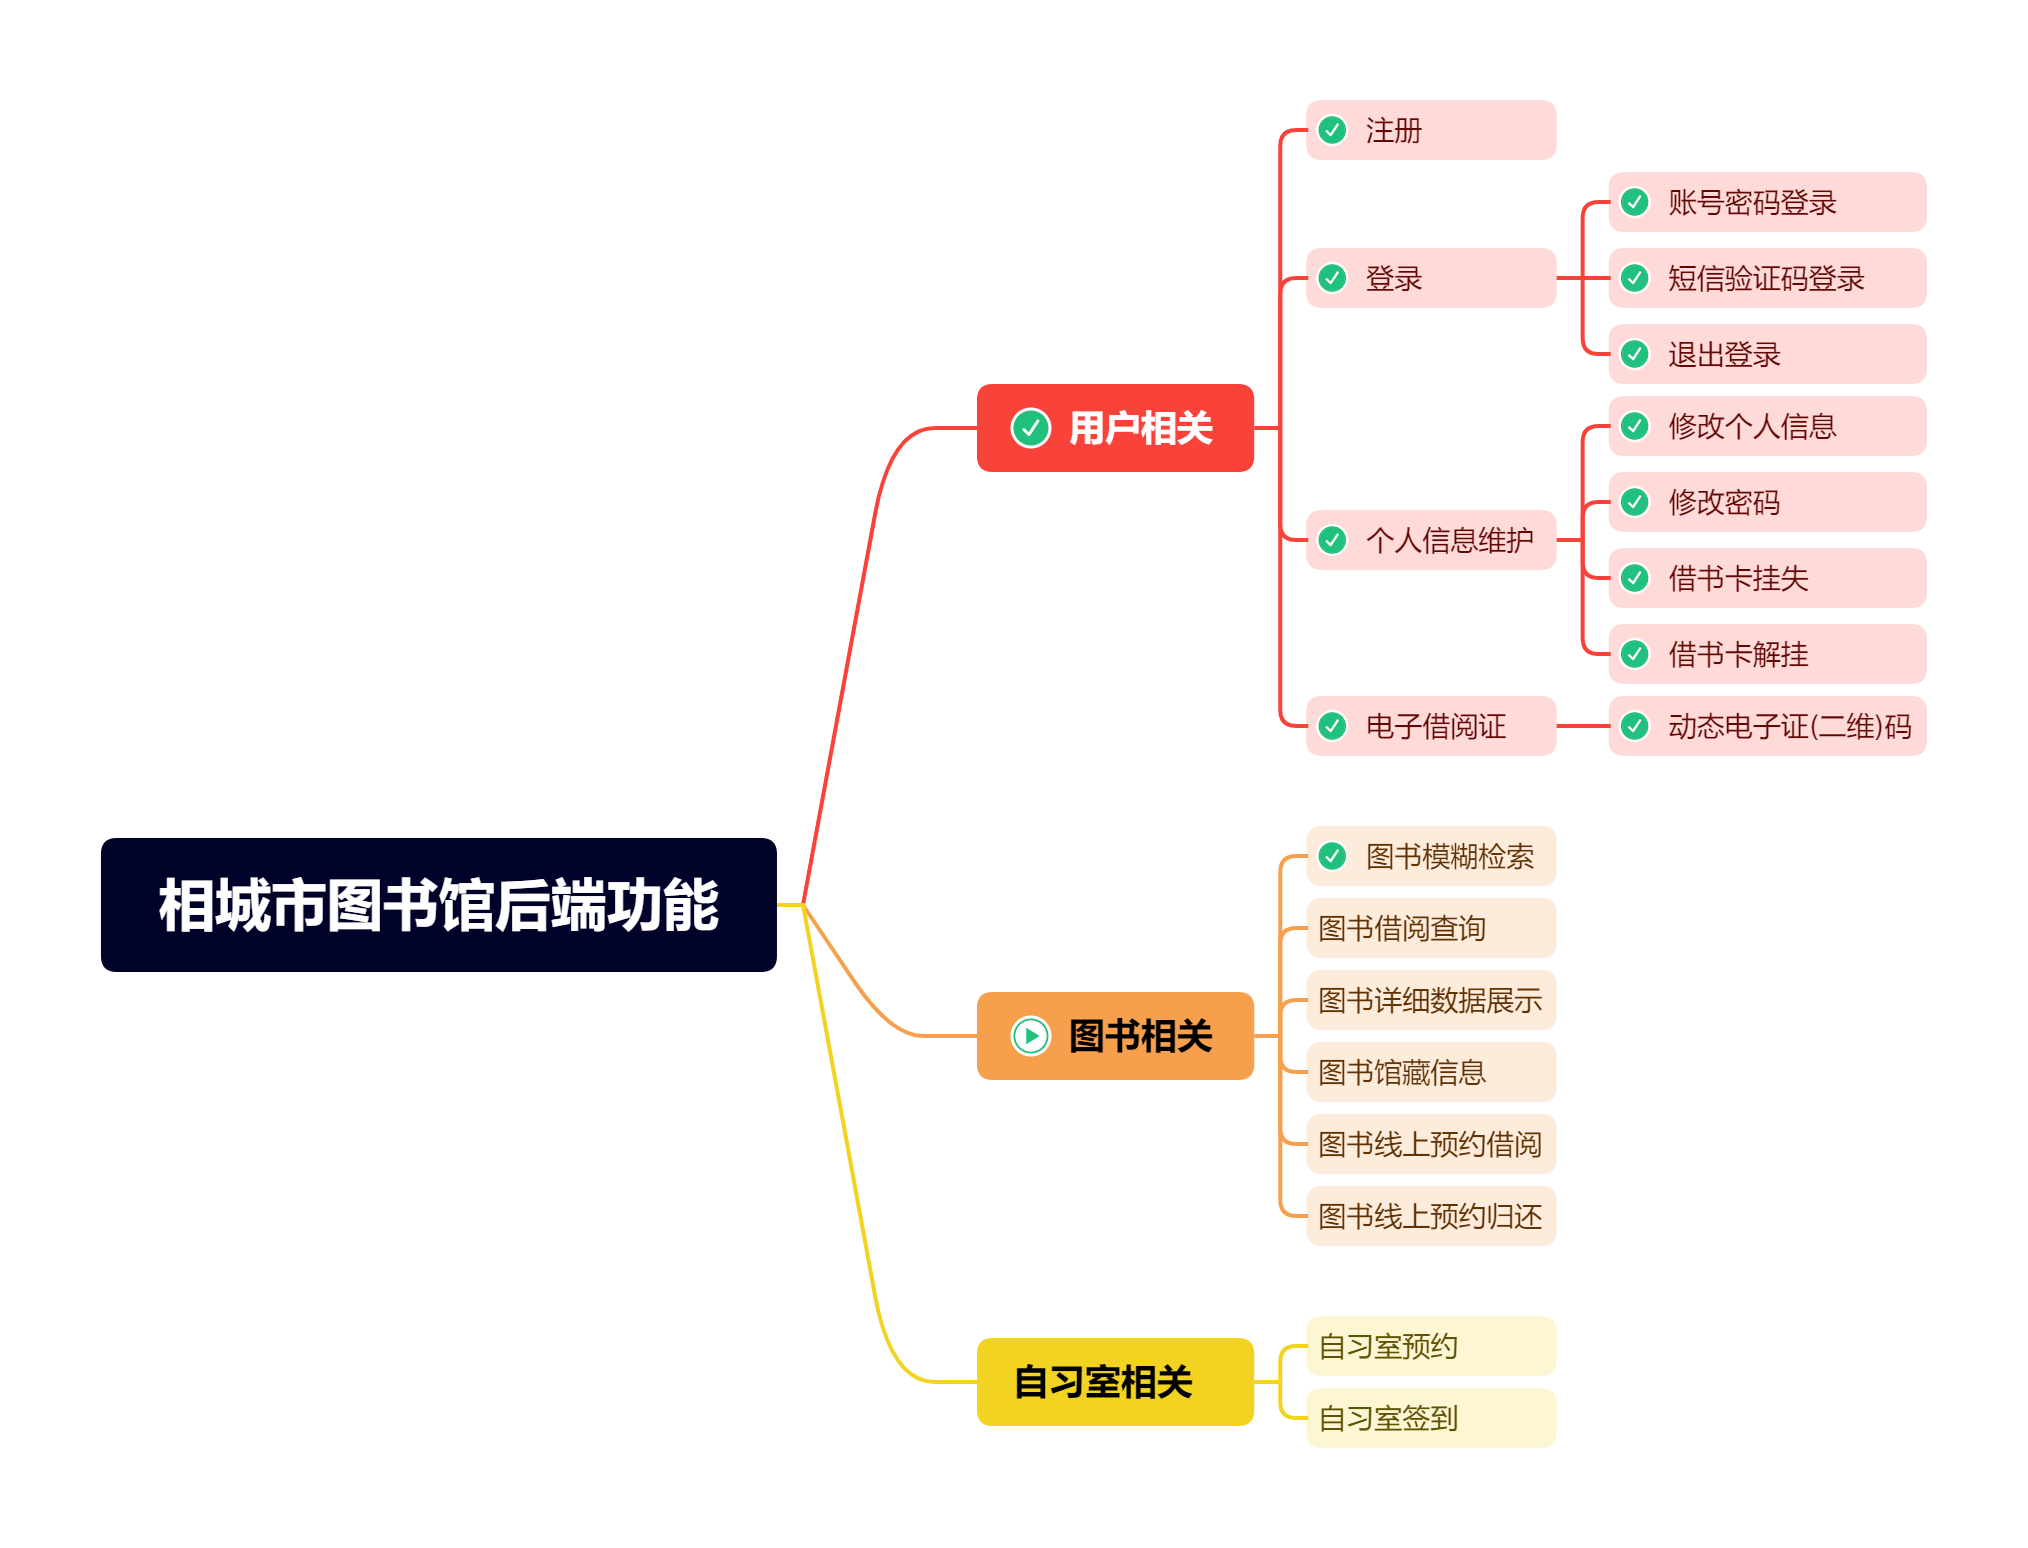
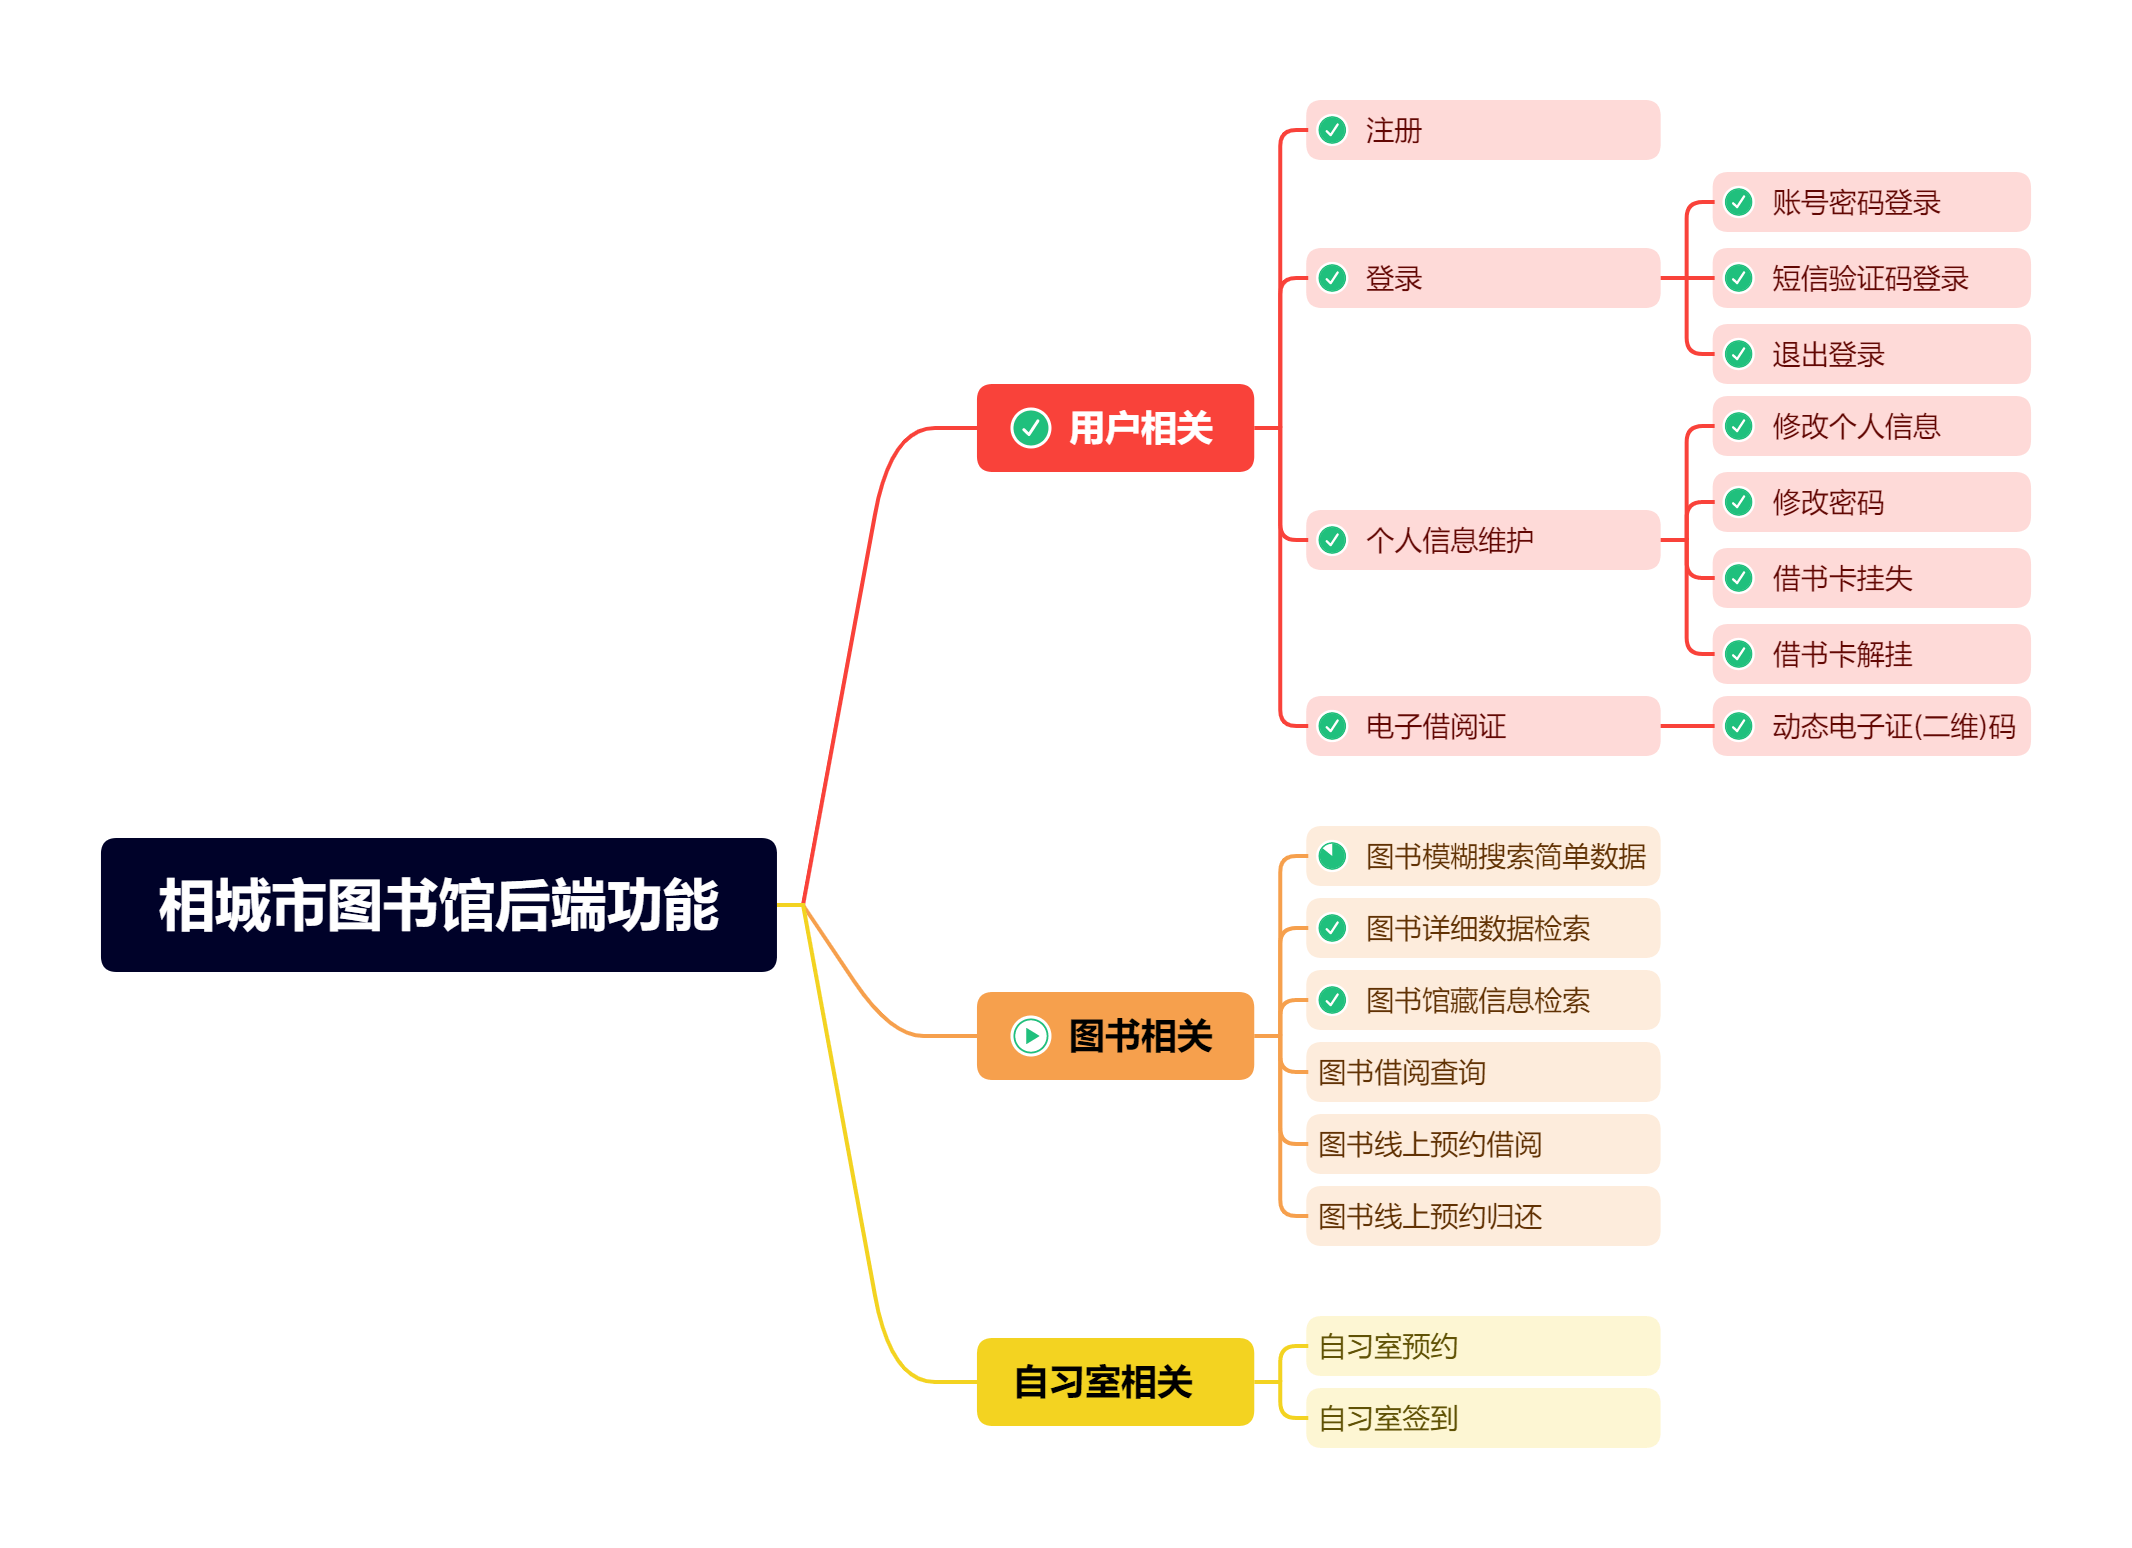
✨新增图书模糊搜索详细数据功能, 图书馆藏信息检索功能, 图书相关测试类

diff --git a/server/main/java/top/mole9630/library/controller/BookController.java b/server/main/java/top/mole9630/library/controller/BookController.java
@@ -9,8 +9,12 @@ import org.springframework.web.bind.annotation.GetMapping;
 import org.springframework.web.bind.annotation.RequestMapping;
 import org.springframework.web.bind.annotation.RestController;
 import top.mole9630.library.common.Result;
+import top.mole9630.library.entity.BookAll;
 import top.mole9630.library.entity.BookInfo;
+import top.mole9630.library.service.BookAllService;
 import top.mole9630.library.service.BookInfoService;
+
+import java.util.List;
 
 @RestController
 @RequestMapping("/book")
@@ -18,6 +22,8 @@ import top.mole9630.library.service.BookInfoService;
 public class BookController {
     @Autowired
     private BookInfoService bookInfoService;
+    @Autowired
+    private BookAllService bookAllService;
 
     /**
      * 分页查询图书信息
@@ -27,7 +33,7 @@ public class BookController {
      * @param type 搜索类型
      * @return 图书信息
      */
-    @GetMapping("/page")
+    @GetMapping("/search-book-page")
     public Result<Page> searchBookInfoPage(int page, int pageSize, String searchText, Integer type) {
         // 构造分页构造器
         Page<BookInfo> bookInfoPage = new Page<>(page, pageSize);
@@ -53,9 +59,33 @@ public class BookController {
             }
         }
         // 添加排序条件
-        queryWrapper.orderByDesc(BookInfo::getUpdate_time);
+//        queryWrapper.orderByDesc(BookInfo::getUpdate_time);
         // 查询
         bookInfoService.page(bookInfoPage, queryWrapper);
         return Result.success(bookInfoPage);
+    }
+
+    /**
+     * 根据图书id查询单个图书详细信息
+     * @param bookId 图书id
+     * @return 图书详细信息
+     */
+    @GetMapping("/get-book-info")
+    public Result<BookInfo> getBookInfo(Integer bookId) {
+        BookInfo bookInfo = bookInfoService.getById(bookId);
+        return Result.success(bookInfo);
+    }
+
+    /**
+     * 根据图书id查询图书馆藏信息
+     * @param bookId 图书id
+     * @return 图书馆藏信息
+     */
+    @GetMapping("/get-book-all")
+    public Result<List<BookAll>> getBookAll(Integer bookId) {
+        LambdaQueryWrapper<BookAll> queryWrapper = new LambdaQueryWrapper<>();
+        queryWrapper.eq(BookAll::getBookId, bookId);
+        List<BookAll> bookAllList = bookAllService.getBaseMapper().selectList(queryWrapper);
+        return Result.success(bookAllList);
     }
 }

diff --git a/server/test/java/top/mole9630/library/book/BookGetTest.java b/server/test/java/top/mole9630/library/book/BookGetTest.java
@@ -1,0 +1,48 @@
+package top.mole9630.library.book;
+
+import com.baomidou.mybatisplus.extension.plugins.pagination.Page;
+import lombok.extern.slf4j.Slf4j;
+import org.junit.jupiter.api.Test;
+import org.springframework.beans.factory.annotation.Autowired;
+import org.springframework.boot.test.context.SpringBootTest;
+import top.mole9630.library.common.Result;
+import top.mole9630.library.controller.BookController;
+import top.mole9630.library.entity.BookAll;
+import top.mole9630.library.entity.BookInfo;
+import top.mole9630.library.service.BookAllService;
+import top.mole9630.library.service.BookInfoService;
+
+import java.util.List;
+
+@SpringBootTest
+@Slf4j
+public class BookGetTest {
+    @Autowired
+    private BookController bookController;
+
+    /**
+     * 分页查询图书信息
+     * @return 图书信息
+     */
+    @Test
+    void getSearchBookTest() {
+        Result<Page> result = bookController.searchBookInfoPage(1, 10, "青少年", 1);
+        log.info("result: {}", result);
+    }
+
+    @Test
+    void getBookInfoTest() {
+        Result<BookInfo> result = bookController.getBookInfo(15052);
+        log.info("result: {}", result);
+    }
+
+    /**
+     * 查询图书馆藏信息
+     * @return 图书馆藏信息
+     */
+    @Test
+    void getBookAllTest() {
+        Result<List<BookAll>> result = bookController.getBookAll(15052);
+        log.info("result: {}", result);
+    }
+}

diff --git a/server/main/java/top/mole9630/library/entity/BookInfo.java b/server/main/java/top/mole9630/library/entity/BookInfo.java
@@ -4,12 +4,14 @@ import com.baomidou.mybatisplus.annotation.FieldFill;
 import com.baomidou.mybatisplus.annotation.IdType;
 import com.baomidou.mybatisplus.annotation.TableField;
 import com.baomidou.mybatisplus.annotation.TableId;
+import com.fasterxml.jackson.annotation.JsonIgnoreProperties;
 import io.swagger.annotations.ApiModel;
 import io.swagger.annotations.ApiModelProperty;
 import lombok.Data;
 
 @Data
 @ApiModel(value = "图书信息")
+@JsonIgnoreProperties(value = {"ordered", "status", "createTime", "updateTime"})
 public class BookInfo {
     @TableId(type = IdType.AUTO)
     @ApiModelProperty(value = "图书ID")
@@ -25,7 +27,7 @@ public class BookInfo {
     private String pubdate;
 
     @ApiModelProperty(value = "图书封面")
-    private String source_image;
+    private String sourceImage;
 
     @ApiModelProperty(value = "作者")
     private String author;
@@ -47,10 +49,9 @@ public class BookInfo {
 
     @ApiModelProperty(value = "创建时间")
     @TableField(fill = FieldFill.INSERT) // 新增时自动填充
-    private String create_time;
+    private String createTime;
 
     @ApiModelProperty(value = "更新时间")
     @TableField(fill = FieldFill.INSERT_UPDATE) // 新增或更新时自动填充
-    private String update_time;
-
+    private String updateTime;
 }

diff --git a/server/main/java/top/mole9630/library/vo/SearchSimpleBookVo.java b/server/main/java/top/mole9630/library/vo/SearchSimpleBookVo.java
@@ -1,0 +1,36 @@
+package top.mole9630.library.vo;
+
+import com.baomidou.mybatisplus.annotation.FieldFill;
+import com.baomidou.mybatisplus.annotation.IdType;
+import com.baomidou.mybatisplus.annotation.TableField;
+import com.baomidou.mybatisplus.annotation.TableId;
+import io.swagger.annotations.ApiModelProperty;
+import lombok.Data;
+
+
+@Data
+public class SearchSimpleBookVo {
+    @ApiModelProperty(value = "图书ID")
+    private Integer id;
+
+    @ApiModelProperty(value = "图书ISBN")
+    private String ibsn;
+
+    @ApiModelProperty(value = "图书名称")
+    private String name;
+
+    @ApiModelProperty(value = "出版日期")
+    private String pubdate;
+
+    @ApiModelProperty(value = "图书封面")
+    private String source_image;
+
+    @ApiModelProperty(value = "作者")
+    private String author;
+
+    @ApiModelProperty(value = "出版社")
+    private String publisher;
+
+    @ApiModelProperty(value = "图书状态")
+    private Integer status;
+}

diff --git a/server/main/java/top/mole9630/library/entity/BookAll.java b/server/main/java/top/mole9630/library/entity/BookAll.java
@@ -1,16 +1,18 @@
 package top.mole9630.library.entity;
 
+import com.fasterxml.jackson.annotation.JsonIgnoreProperties;
 import lombok.Data;
 
 @Data
+@JsonIgnoreProperties(value = {"lendStatus", "createTime", "updateTime"})
 public class BookAll {
     private Integer id;
-    private Integer book_id;
-    private String org_name;
-    private String room_name;
-    private Integer index_no;
-    private String lend_status;
-    private String create_time;
-    private String update_time;
+    private Integer bookId;
+    private String orgName;
+    private String roomName;
+    private String indexNo;
+    private Integer lendStatus;
+    private String createTime;
+    private String updateTime;
 
 }

diff --git a/server/main/java/top/mole9630/library/service/impl/BookAllServiceImpl.java b/server/main/java/top/mole9630/library/service/impl/BookAllServiceImpl.java
@@ -1,0 +1,11 @@
+package top.mole9630.library.service.impl;
+
+import com.baomidou.mybatisplus.extension.service.impl.ServiceImpl;
+import org.springframework.stereotype.Service;
+import top.mole9630.library.entity.BookAll;
+import top.mole9630.library.mapper.BookAllMapper;
+import top.mole9630.library.service.BookAllService;
+
+@Service
+public class BookAllServiceImpl extends ServiceImpl<BookAllMapper, BookAll> implements BookAllService {
+}

diff --git a/server/main/java/top/mole9630/library/mapper/BookAllMapper.java b/server/main/java/top/mole9630/library/mapper/BookAllMapper.java
@@ -1,0 +1,9 @@
+package top.mole9630.library.mapper;
+
+import com.baomidou.mybatisplus.core.mapper.BaseMapper;
+import org.apache.ibatis.annotations.Mapper;
+import top.mole9630.library.entity.BookAll;
+
+@Mapper
+public interface BookAllMapper extends BaseMapper<BookAll> {
+}

diff --git a/server/main/java/top/mole9630/library/service/BookAllService.java b/server/main/java/top/mole9630/library/service/BookAllService.java
@@ -1,0 +1,7 @@
+package top.mole9630.library.service;
+
+import com.baomidou.mybatisplus.extension.service.IService;
+import top.mole9630.library.entity.BookAll;
+
+public interface BookAllService extends IService<BookAll> {
+}

diff --git a/README.md b/README.md
@@ -1,13 +1,13 @@
 # librarySys
-前端基于Vue + ElementUI
-后端基于SpringBoot + MP + Redis + MySQL开发的图书馆前后端系统
+- 前端基于Vue + ElementUI
+- 后端基于SpringBoot + MP + Redis + MySQL开发的图书馆前后端系统
 
 ### 后端已实现及将要实现的功能(TODO)
 ![todo](./pic/todo.png)
 
 ### 网站状态码及日志类型码
-#### 状态码
+#### 全局状态码
 |状态码|说明|备注|
 |:-:|:-:|:-:|
-|0|未定义通用错误码||
-|200|通用成功状态码||
+|0|全局通用未定义错误码||
+|200|全局通用成功状态码||
